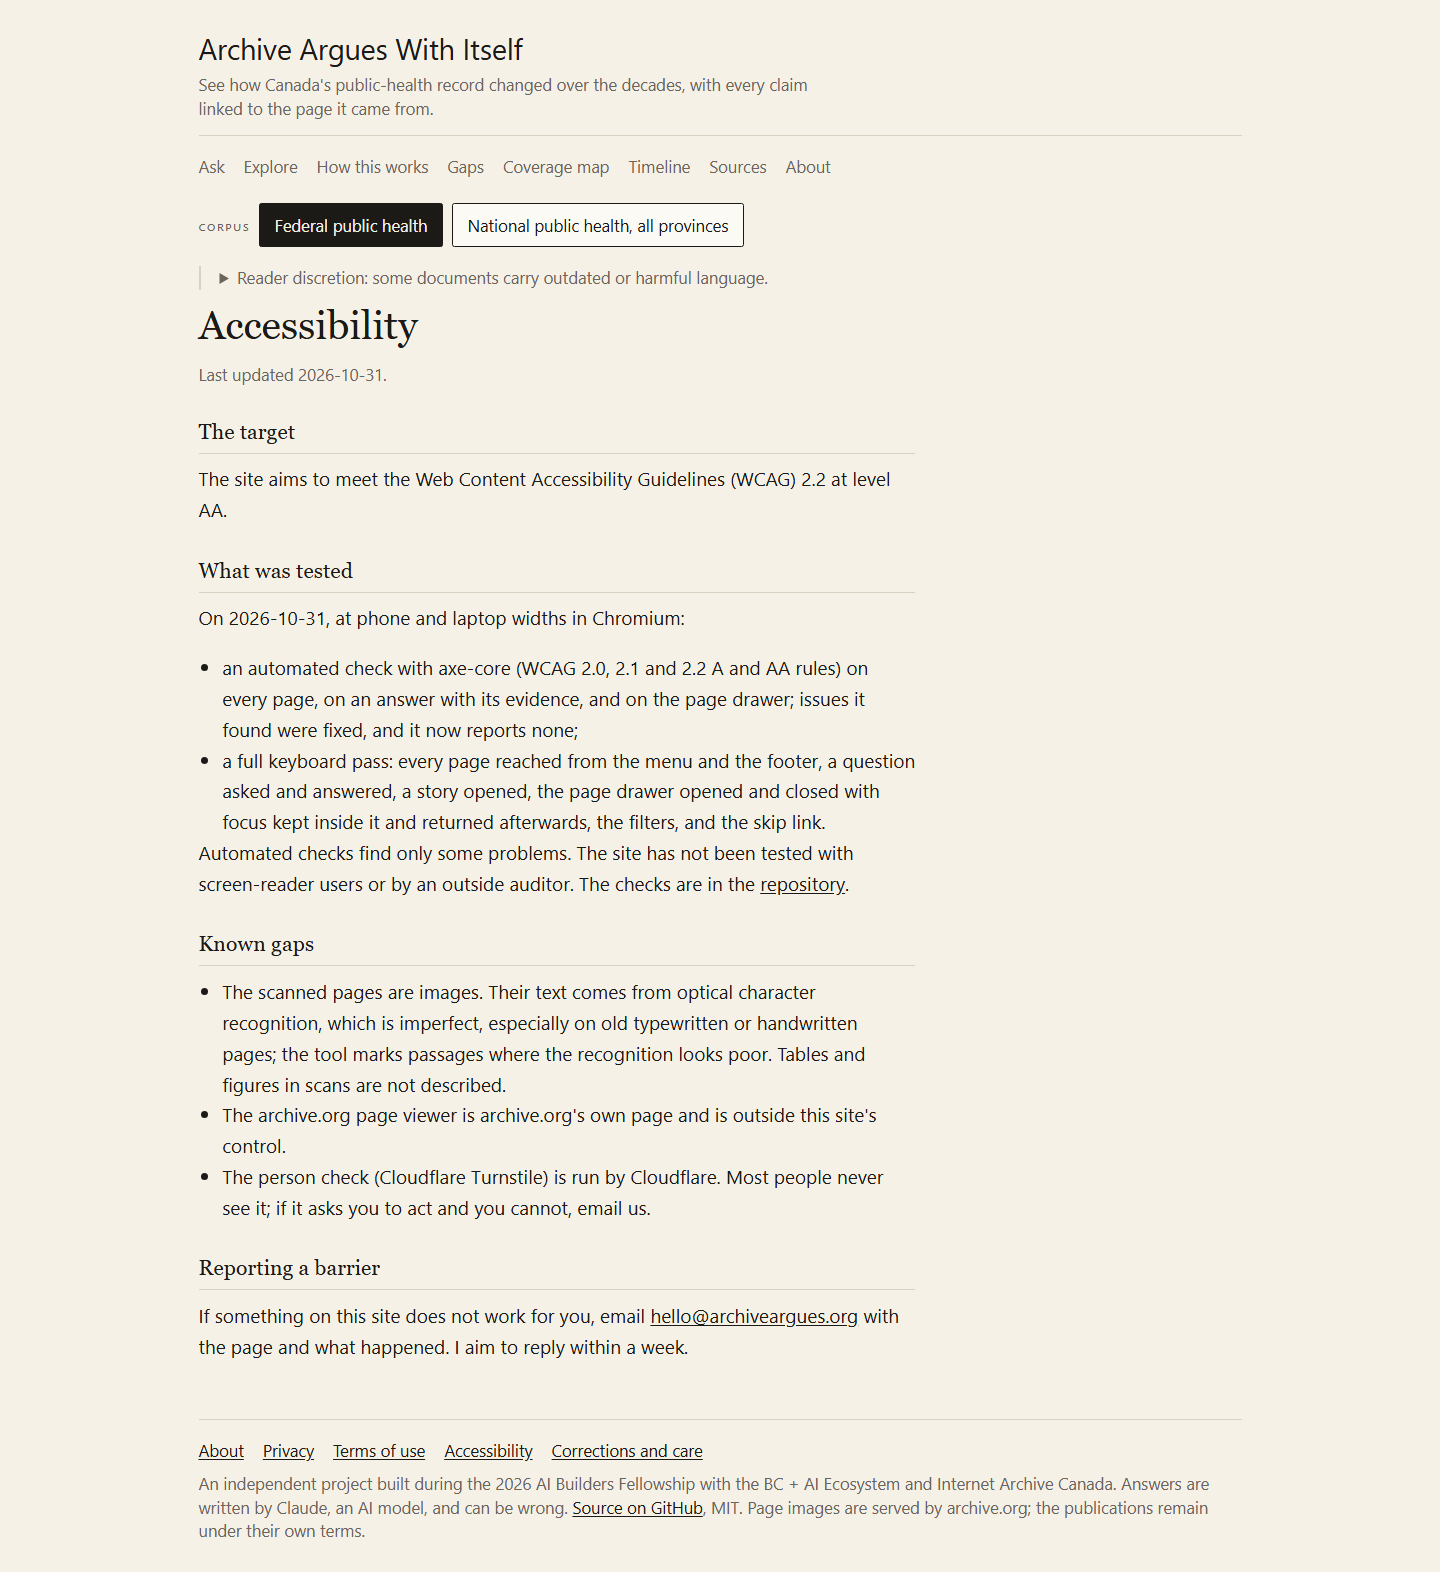
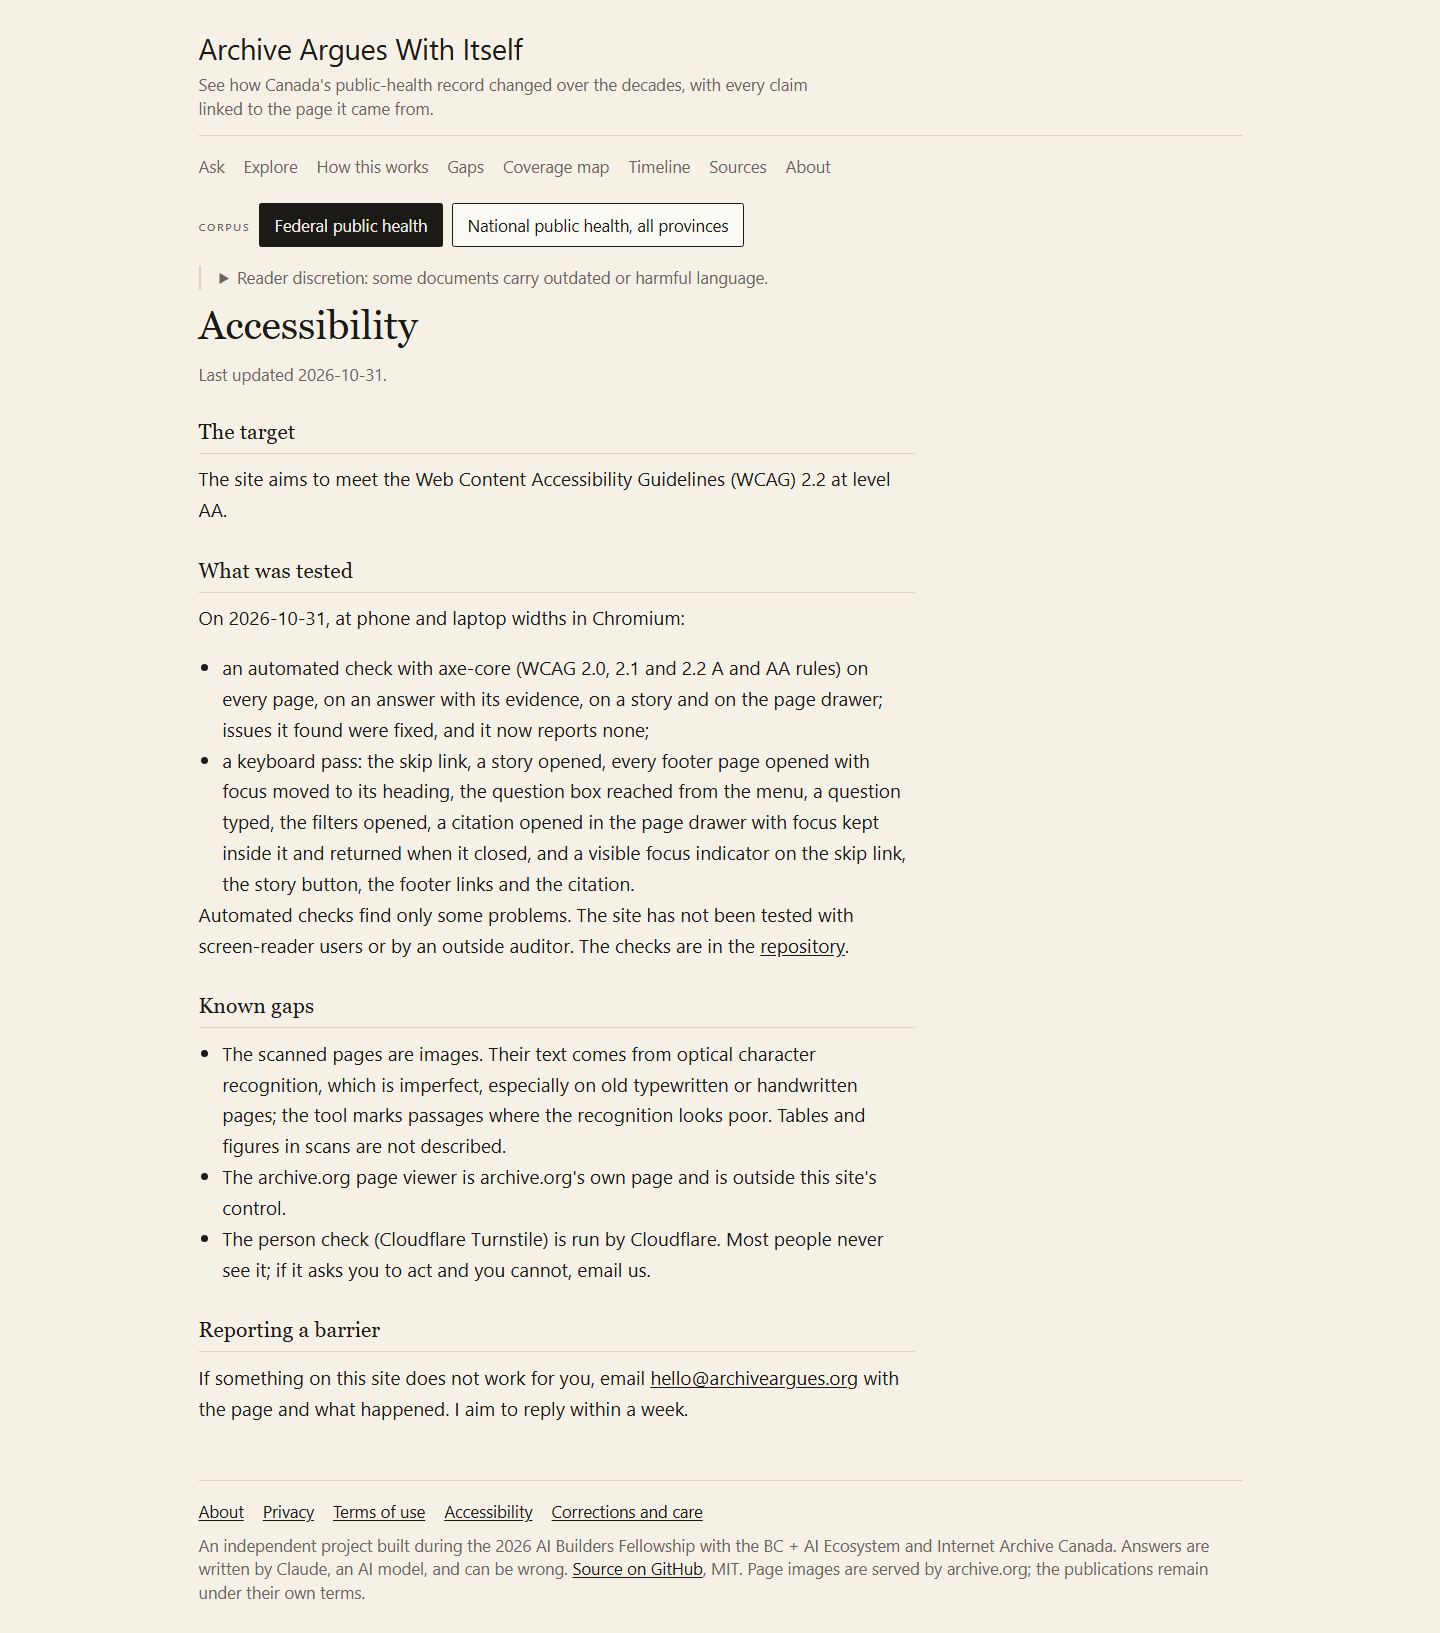
Accessibility page says exactly what the keyboard pass covers; the pass now opens a story

Changed region(s): [[0.125, 0.0, 0.625, 0.8728], [0.125, 0.9039, 0.8438, 0.9975]]

diff --git a/web/src/components/pages/Accessibility.tsx b/web/src/components/pages/Accessibility.tsx
@@ -15,12 +15,13 @@ export function Accessibility() {
       <ul>
         <li>
           an automated check with axe-core (WCAG 2.0, 2.1 and 2.2 A and AA rules) on every page, on an answer
-          with its evidence, and on the page drawer; issues it found were fixed, and it now reports none;
+          with its evidence, on a story and on the page drawer; issues it found were fixed, and it now reports none;
         </li>
         <li>
-          a full keyboard pass: every page reached from the menu and the footer, a question asked and answered,
-          a story opened, the page drawer opened and closed with focus kept inside it and returned afterwards,
-          the filters, and the skip link.
+          a keyboard pass: the skip link, a story opened, every footer page opened with focus moved to its
+          heading, the question box reached from the menu, a question typed, the filters opened, a citation
+          opened in the page drawer with focus kept inside it and returned when it closed, and a visible focus
+          indicator on the skip link, the story button, the footer links and the citation.
         </li>
       </ul>
       <p>

diff --git a/web/e2e/a11y.e2e.ts b/web/e2e/a11y.e2e.ts
@@ -87,6 +87,14 @@ test("keyboard: skip link, menu, footer pages, a question, the drawer and the fi
   await page.keyboard.press("Enter");
   await expect(page.locator("#main-content")).toBeFocused();
 
+  // A story opens from its button with Enter.
+  const storyButton = page.getByRole("button", { name: `See the full answer: ${hero.question}` });
+  await storyButton.focus();
+  expect(await focusVisible(page)).toBe(true);
+  await page.keyboard.press("Enter");
+  await expect(page.getByRole("region", { name: /^\d{4} and \d{4}$/ })).toBeVisible();
+  await page.goto("/");
+
   // Every footer page opens from the keyboard and moves focus to its heading.
   for (const [name, heading] of [
     ["Privacy", "Privacy"], ["Terms of use", "Terms of use"], ["Accessibility", "Accessibility"],
